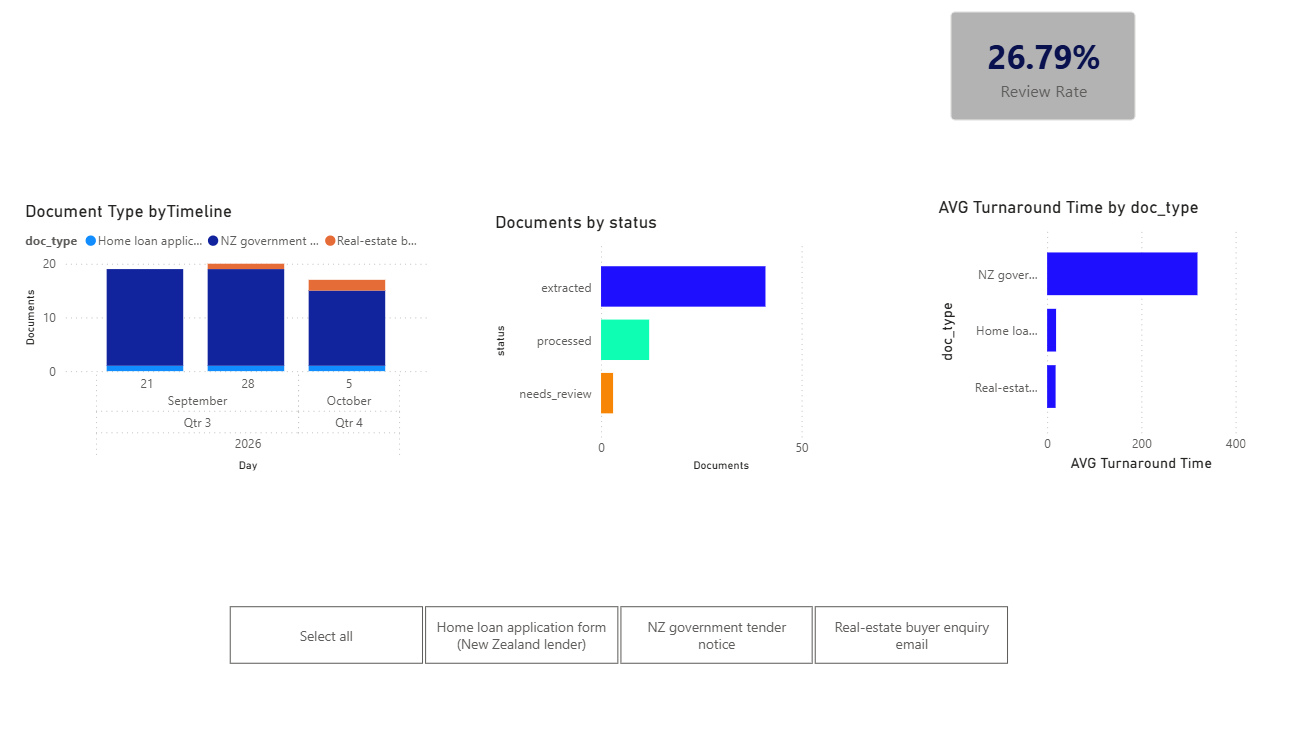
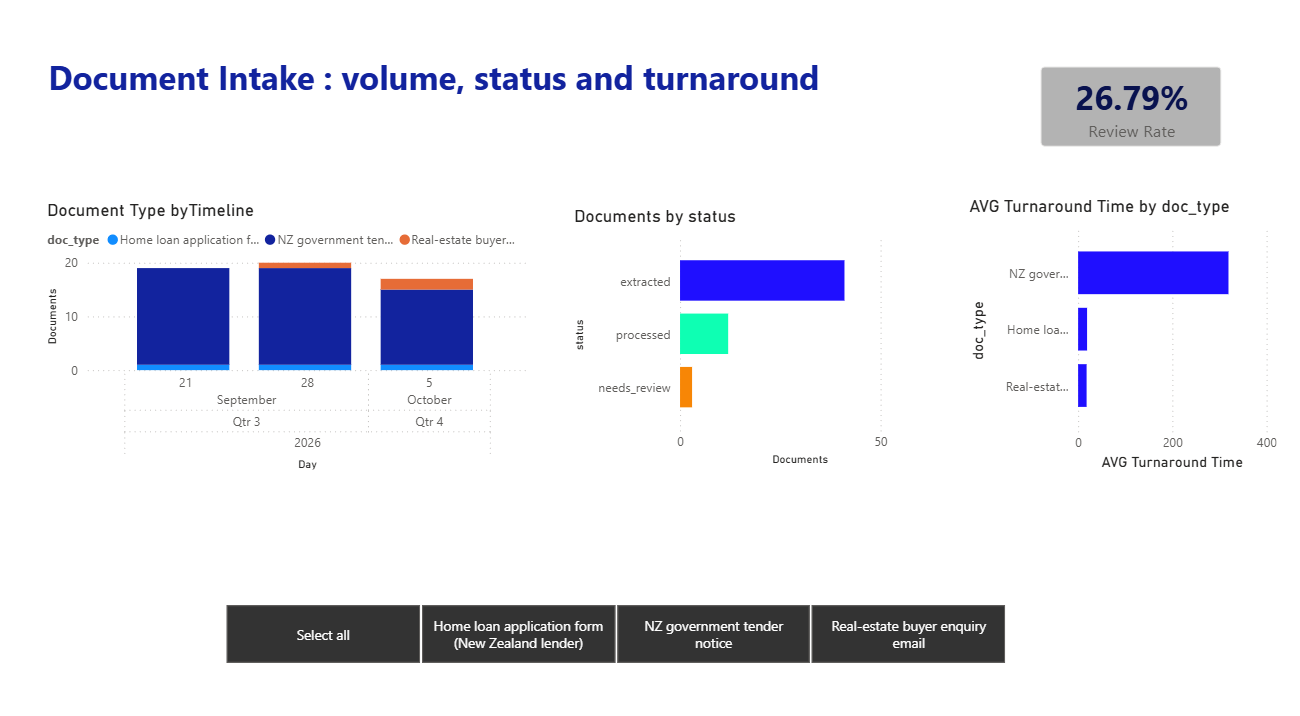
Write the README, re-point samples and weakest-field note; update the dashboard screenshot

diff --git a/README.md b/README.md
@@ -1,26 +1,159 @@
 # AI Document Intake & Workflow Visibility
 
-Semi-structured documents arrive as PDFs. An LLM extracts the fields defined in a YAML schema,
-low-confidence fields go to a human review queue, and every document is logged in SQLite with a
-status and real timestamps. Swapping the YAML file re-points the whole pipeline at a different
-document type with no code change.
+## 1. The problem
 
-**Status: work in progress.** The accuracy table, re-point demo, dashboard and data statement
-are added once the real runs are done. See `PROGRESS.md`.
+A lender or adviser receives applications as PDFs in whatever layout the sender used. Someone re-keys
+the name, the income and the loan amount into a system, and nobody can say how many applications are
+waiting, which ones are stuck, or how long they take. This project reads semi-structured PDFs with an
+LLM, puts every extracted field next to the evidence for it, sends doubtful fields to a person, and
+records each document's status and timestamps so the queue is visible.
 
-## How to run
+The fields to extract live in a YAML file, not in code. Swapping the file points the same pipeline at
+a different document type.
+
+## 2. Architecture
+
+```mermaid
+flowchart LR
+    PDF[PDF arrives] --> T[Extract text<br/>pdfplumber]
+    Y[(Schema YAML<br/>fields, prompt, rules)] --> X
+    T --> X[LLM extraction<br/>value + evidence quote]
+    Y --> V
+    X --> V[Validate and score<br/>rule-based confidence]
+    V --> S[(SQLite status table<br/>status, timestamps)]
+    V -->|confidence below 0.7| Q[Review queue CSV<br/>a person decides]
+    Q --> S
+    S --> D[Power BI dashboard]
+```
+
+Confidence is computed by rules, not reported by the model:
+
+| Case | Score |
+| --- | --- |
+| Value passes validation and its evidence quote (or the value itself) is in the PDF text word for word | 1.0 |
+| Value passes validation but cannot be found in the text | 0.6 |
+| Value fails validation (bad date, wrong format, not an allowed option) | 0.3 |
+| Required field is empty | 0.0 |
+| Optional field is empty: 1.0 if the document never mentions it, 0.5 if it does | 1.0 or 0.5 |
+
+Any field under 0.7 goes to the review queue, and its document is marked `needs_review`.
+
+## 3. Accuracy
+
+Measured on 10 real tender notices against labels fixed before extraction ran.
+
+| Field | Correct | Total | Accuracy | |
+| --- | --- | --- | --- | --- |
+| agency | 10 | 10 | 100% |  |
+| title | 10 | 10 | 100% |  |
+| reference | 10 | 10 | 100% |  |
+| close_date | 10 | 10 | 100% |  |
+| category | 10 | 10 | 100% |  |
+| region | 10 | 10 | 100% |  |
+| contact_name | 10 | 10 | 100% |  |
+| **overall** | 70 | 70 | 100% | |
+
+Model: `gpt-6-luna`. Extraction run: 2026-10-09. Full report: [`output/accuracy_report.md`](output/accuracy_report.md).
+
+Read this number with care:
+
+- It is 10 documents from one website. Every GETS notice page uses the same template, so this is an
+  easy test. One error would have moved a field by 10 points.
+- The labels were drafted by a rule-based script (no LLM) and then checked by hand against each PDF;
+  0 of 70 cells needed correction. The 10 documents were drawn at random (seed 42) and never used for
+  prompt tuning; 5 other documents were used for that.
+- There is no gold set for the loan or enquiry documents. On those 6, reading each against its source,
+  the model missed one value that was present (a loan purpose typed beside tick-box labels) and left
+  several awkwardly written values empty for review. See section 4.
+
+## 4. Re-point demo: three document types, one config change
+
+| Document type | Schema file | Documents | Extracted cleanly | Sent to review |
+| --- | --- | --- | --- | --- |
+| NZ government tender notice | `config/schema_tender.yaml` | 50 | 38 | 12 |
+| Home loan application form | `config/schema_loan_application.yaml` | 3 | 1 | 2 |
+| Real-estate buyer enquiry email | `config/schema_realestate_lead.yaml` | 3 | 2 | 1 |
+
+The command is the same each time; only the YAML file changes:
+
+```bash
+python -m src.extract --schema config/schema_tender.yaml
+python -m src.extract --schema config/schema_loan_application.yaml
+python -m src.extract --schema config/schema_realestate_lead.yaml
+```
+
+Sample output for each: [tender](docs/repoint_tender.md), [loan](docs/repoint_loan.md), [enquiry](docs/repoint_lead.md).
+
+The pipeline code was not edited between the tender run and the other two. This prints nothing:
+
+```bash
+git diff --stat b42e304 d93d047 -- src/extract.py src/validate.py src/store.py src/review.py src/llm.py src/schema.py
+```
+
+A test also fails the build if any field name from any schema file appears in `src/`.
+
+What the review queue caught on the loan and enquiry documents: three boxes left blank on a form, an
+amount written as "350-360k", an income of "about 65k", an email written "pat(at)example.com", a phone
+number too short to be real, and the missed loan purpose. Values the model converted correctly
+included "1st March 1978", "01/02/27" and a budget of "1.2m".
+
+## 5. Dashboard
+
+![Power BI page: documents received per week, documents by status, average turnaround, share sent to review](dashboard/screenshot.png)
+
+**The dates and turnaround times in this image are simulated.** All 56 documents were really received
+on one day, which makes a chart over time a single bar, so `dashboard/simulate_timings.py` spreads the
+arrival and processing times over three working weeks to show the layout. The document counts, the
+statuses (41 extracted, 12 processed, 3 needing review) and the 26.79% review rate are real pipeline
+output. The real timings are in `dashboard/applications.csv`: about 1 hour 40 minutes from receipt to
+extraction and about 3 hours 5 minutes for the 12 documents that went through review, as clock time
+in a single demo session, not a figure for live operations.
+
+Power BI file: [`dashboard/intake.pbix`](dashboard/intake.pbix). Build notes: [`dashboard/BUILD.md`](dashboard/BUILD.md).
+
+## 6. How to run
 
 ```bash
 python3 -m venv .venv && source .venv/bin/activate     # Python 3.11+
 pip install -r requirements.txt
-cp .env.example .env                                   # then fill in provider, model, key
-python -m pytest -q                                    # offline, no key needed
+cp .env.example .env                                   # fill in provider, model and API key
+python -m pytest -q                                    # 22 tests, offline, no key needed
 
-python -m src.fetch_docs                               # verify tender PDFs, write the manifest
+python -m src.fetch_docs --print                       # save the tender pages in data/sources.md as PDFs
 python -m src.extract --schema config/schema_tender.yaml
-python -m src.store sync
-python -m src.review build                             # then fill reviewer_action in the CSV
+python -m src.store sync                               # build the status table
+python -m src.review build                             # write output/review_queue.csv
+#   fill reviewer_action (accept / correct / blank) in the CSV, then:
 python -m src.review apply
 python -m src.evaluate --schema config/schema_tender.yaml
-python -m src.export_bi
+python -m src.export_bi                                # write dashboard/applications.csv
 ```
+
+Any OpenAI-compatible or Anthropic model works; the provider and model are set in `.env`. Responses
+are cached on disk, so a rerun costs nothing, and a call cap in `.env` stops runaway spend. The whole
+project used 56 API calls.
+
+## 7. Known limitations
+
+- Accuracy is measured on 10 documents from a single page template. It is not evidence of accuracy on
+  varied real-world documents.
+- No OCR. A scanned PDF with no text layer goes straight to review.
+- The confidence rules catch missing evidence and bad formats. They do not catch a well-formed value
+  quoted from the wrong place in the document.
+- An empty optional field is flagged whenever its keyword appears in the document. On printed forms
+  the keyword is always there, so every blank box is sent to a person.
+- Turnaround comes from one batch demo run, and the dashboard image uses simulated timings.
+
+## 8. Data statement
+
+| Documents | Real or fictional | Source |
+| --- | --- | --- |
+| 50 tender notices | Real and public | Notice pages on the NZ Government Electronic Tenders Service (gets.govt.nz), saved as PDF on 2026-10-09. Every URL and file hash is in [`data/sources.md`](data/sources.md) |
+| 3 loan applications | Real blank form, fictional content | First Credit Union's public home loan application form, filled by script with made-up applicants (Jane Example, John Sample, Pat Placeholder) and stamped as fictional on every page |
+| 3 real-estate enquiries | Fictional | Written by `src/make_fictional_leads.py` |
+
+No real personal or financial data is used anywhere. Real loan applications hold a person's income,
+debts and identity details; under the NZ Privacy Act 2020 they could not be obtained or published.
+
+No PDF is committed to this repository. The tender pages and the lender's form are other people's
+documents, so the repository holds the list of sources and the scripts that fetch or generate them.

diff --git a/docs/repoint_loan.md b/docs/repoint_loan.md
@@ -1,0 +1,55 @@
+# Re-point run: schema_loan_application
+
+Command (the only thing that changes between document types is the YAML file):
+
+```bash
+python -m src.extract --schema config/schema_loan_application.yaml
+```
+
+3 documents processed. First record, trimmed to value and confidence:
+
+```json
+{
+  "doc_id": "LOAN-2026-0001",
+  "schema_used": "schema_loan_application",
+  "confidence_min": 1.0,
+  "fields": {
+    "applicant_first_name": {
+      "value": "Jane",
+      "confidence": 1.0
+    },
+    "applicant_last_name": {
+      "value": "Example",
+      "confidence": 1.0
+    },
+    "date_of_birth": {
+      "value": "1990-02-14",
+      "confidence": 1.0
+    },
+    "home_address": {
+      "value": "12 Nowhere Street, Exampleton",
+      "confidence": 1.0
+    },
+    "employer_name": {
+      "value": "Example Widgets Ltd",
+      "confidence": 1.0
+    },
+    "annual_income": {
+      "value": "80000",
+      "confidence": 1.0
+    },
+    "loan_purpose": {
+      "value": "Buy a first home",
+      "confidence": 1.0
+    },
+    "amount_to_borrow": {
+      "value": "400000",
+      "confidence": 1.0
+    },
+    "settlement_date": {
+      "value": "2026-12-15",
+      "confidence": 1.0
+    }
+  }
+}
+```

diff --git a/output/accuracy_report.md b/output/accuracy_report.md
@@ -37,4 +37,18 @@ None.
 
 ## 5. Weakest field
 
-DRAFT - Saleh to edit. Write the note in `output/weakest_field_note.md` and rerun.
+DRAFT - Saleh to edit.
+
+No field was weaker than another on this test: all 70 gold values matched. That says more about the
+test than about the model. The ten gold documents are GETS notice pages, which all share one page
+template with labelled lines, so the fields sit in the same place every time. With ten documents, one
+error would have moved a field by ten points, and a true error rate of up to roughly one in four per
+field could have gone unseen.
+
+The field most likely to fail on a harder corpus is `contact_name`. Across all 50 notices, 11 had a
+contact line that was a job title, an instruction or an email address instead of a name, and the model
+left each of those empty for a person to check. Whether "Procurement Coordinator" counts as a contact
+is a labelling decision, not something the model can settle.
+
+Next step: build a second gold set from the tender documents attached to each notice (the RFT and
+RFP files, which differ by agency), or from the loan forms, and report accuracy on that.

diff --git a/docs/repoint_tender.md b/docs/repoint_tender.md
@@ -1,0 +1,47 @@
+# Re-point run: schema_tender
+
+Command (the only thing that changes between document types is the YAML file):
+
+```bash
+python -m src.extract --schema config/schema_tender.yaml
+```
+
+50 documents processed. First record, trimmed to value and confidence:
+
+```json
+{
+  "doc_id": "GETS-2026-0002",
+  "schema_used": "schema_tender",
+  "confidence_min": 1.0,
+  "fields": {
+    "agency": {
+      "value": "New Zealand Transport Agency (Waka Kotahi) - HISTORIC",
+      "confidence": 1.0
+    },
+    "title": {
+      "value": "14247 SH3 Ashhurst Shared Use Path",
+      "confidence": 1.0
+    },
+    "reference": {
+      "value": "35111110",
+      "confidence": 1.0
+    },
+    "close_date": {
+      "value": "2026-11-12",
+      "confidence": 1.0
+    },
+    "category": {
+      "value": "72141000 - Highway and road construction services",
+      "confidence": 1.0
+    },
+    "region": {
+      "value": "Manawatu-Wanganui",
+      "confidence": 1.0
+    },
+    "contact_name": {
+      "value": "Ashley Lamont",
+      "confidence": 1.0
+    }
+  }
+}
+```

diff --git a/docs/repoint_lead.md b/docs/repoint_lead.md
@@ -1,0 +1,47 @@
+# Re-point run: schema_realestate_lead
+
+Command (the only thing that changes between document types is the YAML file):
+
+```bash
+python -m src.extract --schema config/schema_realestate_lead.yaml
+```
+
+3 documents processed. First record, trimmed to value and confidence:
+
+```json
+{
+  "doc_id": "LEAD-2026-0001",
+  "schema_used": "schema_realestate_lead",
+  "confidence_min": 1.0,
+  "fields": {
+    "lead_name": {
+      "value": "Jane Example",
+      "confidence": 1.0
+    },
+    "lead_email": {
+      "value": "jane@example.com",
+      "confidence": 1.0
+    },
+    "lead_phone": {
+      "value": "000 000 0000",
+      "confidence": 1.0
+    },
+    "property_of_interest": {
+      "value": "12 Nowhere Street, Exampleton",
+      "confidence": 1.0
+    },
+    "budget_nzd": {
+      "value": "900000",
+      "confidence": 1.0
+    },
+    "move_timeframe": {
+      "value": "within three months",
+      "confidence": 1.0
+    },
+    "preferred_contact": {
+      "value": "phone",
+      "confidence": 1.0
+    }
+  }
+}
+```

diff --git a/output/weakest_field_note.md b/output/weakest_field_note.md
@@ -1,0 +1,15 @@
+DRAFT - Saleh to edit.
+
+No field was weaker than another on this test: all 70 gold values matched. That says more about the
+test than about the model. The ten gold documents are GETS notice pages, which all share one page
+template with labelled lines, so the fields sit in the same place every time. With ten documents, one
+error would have moved a field by ten points, and a true error rate of up to roughly one in four per
+field could have gone unseen.
+
+The field most likely to fail on a harder corpus is `contact_name`. Across all 50 notices, 11 had a
+contact line that was a job title, an instruction or an email address instead of a name, and the model
+left each of those empty for a person to check. Whether "Procurement Coordinator" counts as a contact
+is a labelling decision, not something the model can settle.
+
+Next step: build a second gold set from the tender documents attached to each notice (the RFT and
+RFP files, which differ by agency), or from the loan forms, and report accuracy on that.
